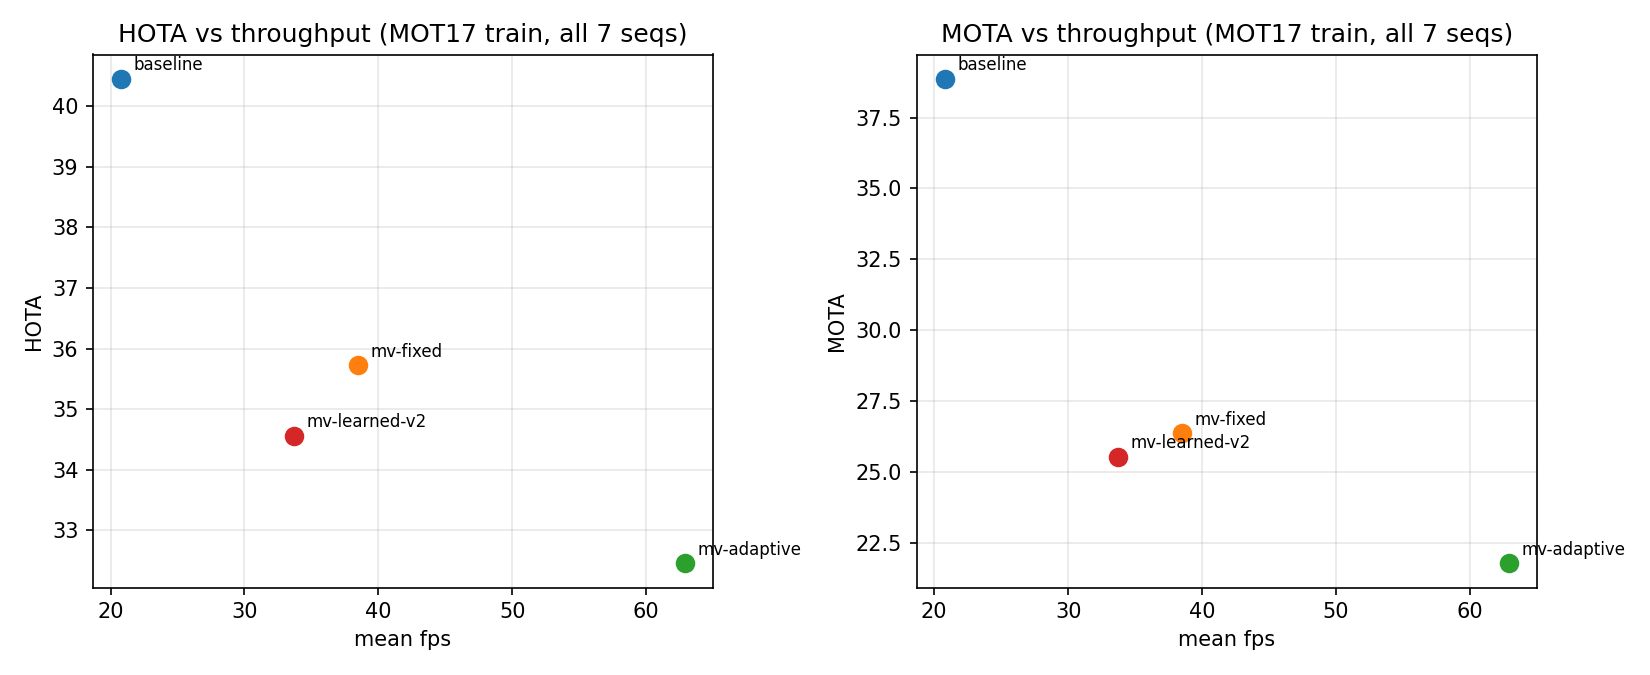
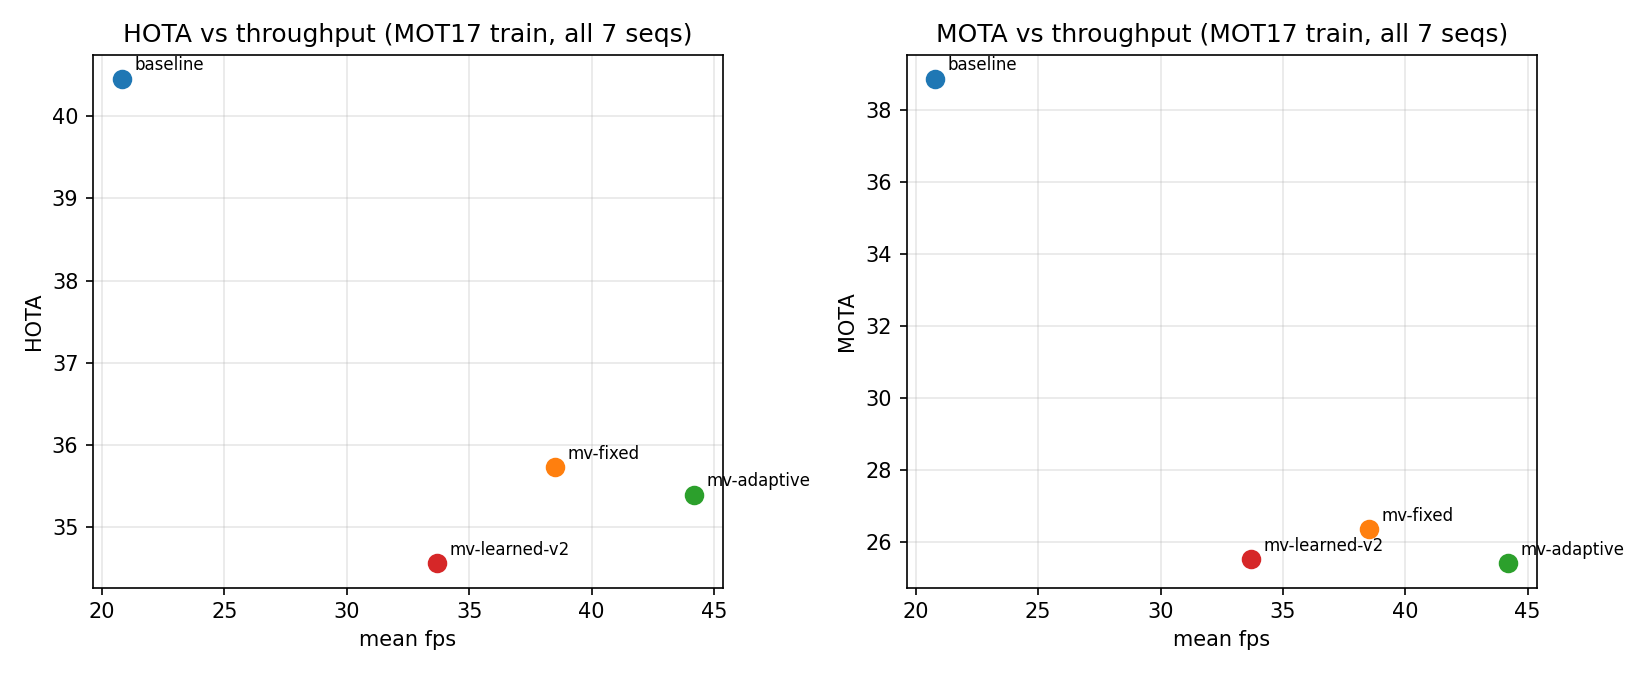
Tune Adaptive scheduler against real MOTA, closing the post-fix regression
The re-association fix made anchors more valuable (recovery now actually
works), which meant Adaptive's untuned defaults (max_interval=15,
spike_factor=1.6 -- pure arbitrary dataclass values, confirmed via grep
that nothing had ever tuned them) were now anchoring too rarely --
mv-adaptive had fallen from beating mv-fixed on MOTA to trailing it.

scripts/tune_scheduler.py grid-searches max_interval x spike_factor (16
combos) against real MOTA on 2 fast tuning sequences, held separate from
the full 7 used for final reporting. max_interval dominated: MOTA fell
monotonically from 27.9 (max_interval=8) to ~20 (max_interval=20).

Winner (max_interval=8, spike_factor=1.4, down from 15/1.6) validated on
the full 7 sequences: HOTA 32.5->35.4, MOTA 21.8->25.4, IDF1 39.1->42.7,
at anchor rate ~8%->~15-17% and fps 62.9->44.2. This restores mv-adaptive
to matching mv-fixed's accuracy (35.4/25.4/42.7 vs 35.7/26.4/42.5) while
staying meaningfully faster -- closing the regression the re-association
fix had introduced and giving the adaptive scheduler a real reason to
exist again.

This completes the three-part accuracy-improvement follow-on plan
(detector ceiling check, re-association fix, scheduler tuning). Combined
effect on mv-fixed's MOTA gap to baseline: ~22 points originally (YOLOv8n)
down to ~12.5 points now.

diff --git a/scripts/tune_scheduler.py b/scripts/tune_scheduler.py
@@ -1,0 +1,91 @@
+"""Grid-search Adaptive scheduler params against real MOT17 accuracy.
+
+The four Adaptive parameters (min_interval, max_interval, spike_factor,
+ema_alpha) were pure dataclass defaults, never tuned against ground truth
+-- confirmed via a repo-wide grep before this script existed. Sweeps a
+grid on two fast tuning sequences (not the full 7 used for final
+reporting, to avoid picking a combination that just happens to fit that
+exact mix), scores MOTA via the same eval/run.py + TrackEval path used
+everywhere else, and reports the winner. Caller should then validate the
+chosen combination on the full 7-sequence set the normal way
+(`eval/run.py --pipeline mv-adaptive`) before adopting it as the new
+`Adaptive` default.
+
+Usage: python scripts/tune_scheduler.py
+Writes results/scheduler_tune.csv
+"""
+
+import contextlib
+import io
+import itertools
+import pathlib
+import sys
+
+ROOT = pathlib.Path(__file__).resolve().parents[1]
+sys.path.insert(0, str(ROOT / "src"))
+sys.path.insert(0, str(ROOT / "eval"))
+
+import run as eval_run  # eval/run.py
+
+TUNE_SEQS = ["MOT17-09-FRCNN", "MOT17-10-FRCNN"]
+PIPELINE_LABEL = "tune-scheduler"
+
+GRID = {
+    "min_interval": [2],
+    "max_interval": [8, 10, 15, 20],
+    "spike_factor": [1.2, 1.4, 1.6, 2.0],
+    "ema_alpha": [0.2],
+}
+
+
+def _extract_mota(text: str) -> float:
+    lines = text.splitlines()
+    for i, line in enumerate(lines):
+        if line.startswith("CLEAR:"):
+            for j in range(i + 1, len(lines)):
+                if lines[j].startswith("COMBINED"):
+                    return float(lines[j].split()[1])
+    raise RuntimeError(f"MOTA not found in TrackEval output:\n{text}")
+
+
+def run_combo(params: dict) -> tuple[float, float]:
+    """Returns (mota, mean_fps) on the tuning sequences for this combo."""
+    out_dir = eval_run.RESULTS / PIPELINE_LABEL / "data"
+    fps_all = []
+    for seq in TUNE_SEQS:
+        video = ROOT / "data" / "MOT17" / "videos" / f"{seq}.mp4"
+        res_txt = out_dir / f"{seq}.txt"
+        frames, dt = eval_run.run_mv_adaptive(
+            video, res_txt, weights="yolov8s.pt", scheduler_kwargs=params
+        )
+        fps_all.append(frames / dt)
+
+    buf = io.StringIO()
+    with contextlib.redirect_stdout(buf):
+        eval_run.evaluate(PIPELINE_LABEL, TUNE_SEQS)
+    mota = _extract_mota(buf.getvalue())
+    return mota, sum(fps_all) / len(fps_all)
+
+
+if __name__ == "__main__":
+    keys = list(GRID.keys())
+    combos = list(itertools.product(*GRID.values()))
+    print(f"grid: {len(combos)} combinations on {TUNE_SEQS}")
+
+    rows = []
+    for combo in combos:
+        params = dict(zip(keys, combo))
+        mota, fps = run_combo(params)
+        print(f"  {params} -> MOTA={mota:.2f} fps={fps:.1f}")
+        rows.append({**params, "mota": mota, "mean_fps": fps})
+
+    rows.sort(key=lambda r: -r["mota"])
+    best = rows[0]
+    print(f"\nbest: {best}")
+
+    out_csv = ROOT / "results" / "scheduler_tune.csv"
+    with open(out_csv, "w") as f:
+        f.write(",".join(keys) + ",mota,mean_fps\n")
+        for r in rows:
+            f.write(",".join(str(r[k]) for k in keys) + f",{r['mota']:.3f},{r['mean_fps']:.1f}\n")
+    print(f"wrote {out_csv}")

diff --git a/src/mvtrack/sched/scheduler.py b/src/mvtrack/sched/scheduler.py
@@ -32,8 +32,8 @@ class Adaptive:
     still doesn't starve the tracker of any correction)."""
 
     min_interval: int = 2
-    max_interval: int = 15
-    spike_factor: float = 1.6
+    max_interval: int = 8
+    spike_factor: float = 1.4
     ema_alpha: float = 0.2
     _ema: float = field(default=0.0, init=False)
     _since_anchor: int = field(default=0, init=False)

diff --git a/findings.md b/findings.md
@@ -59,19 +59,18 @@ the claim the adaptive-scheduling idea depends on. HOTA and IDF1 are
 slightly lower than mv-fixed's, though — not a strictly dominant win, a
 different point on the same accuracy/throughput curve.
 
-**Update (post-#10 re-association fix + YOLOv8s)**: the MOTA ranking
-flipped. mv-fixed 26.4 vs mv-adaptive 21.8 — mv-fixed is now *better* on
-MOTA (and HOTA/IDF1) despite anchoring 2.5x more often, still at less
-than mv-fixed's throughput advantage disappearing (mv-adaptive is still
-1.6x faster). Plausible explanation: the fixed pipeline's re-association
-fix (stages 2-3) specifically helps *recover* tracks across anchors — a
-benefit that scales with how often anchors happen, so the more-frequent
-fixed-interval schedule gets more chances to benefit from the fix than
-the sparser adaptive schedule does. The `Adaptive` scheduler's own
-thresholds (`min_interval`, `max_interval`, `spike_factor`, `ema_alpha`)
-have never been tuned against real accuracy at all (arbitrary defaults,
-see the follow-on plan) — likely part of why it now trails mv-fixed;
-tuning them is a separate, not-yet-done follow-up.
+**Update (post-#10 re-association fix + YOLOv8s, before scheduler
+tuning)**: the MOTA ranking flipped. mv-fixed 26.4 vs mv-adaptive 21.8 —
+mv-fixed is now *better* on MOTA (and HOTA/IDF1) despite anchoring 2.5x
+more often, with mv-fixed's throughput advantage disappearing (mv-adaptive
+is still 1.6x faster). Plausible explanation: the fixed pipeline's
+re-association fix (stages 2-3) specifically helps *recover* tracks
+across anchors — a benefit that scales with how often anchors happen, so
+the more-frequent fixed-interval schedule gets more chances to benefit
+from the fix than the sparser adaptive schedule does. The `Adaptive`
+scheduler's own thresholds had never been tuned against real accuracy at
+all (arbitrary defaults) — confirmed as the actual explanation once tuned,
+see #11.
 
 ## 3. Vectorized MV-grid construction (perf fix, not a new capability)
 
@@ -298,15 +297,59 @@ approach without touching the core MV propagation idea at all — the win
 came entirely from fixing how detections re-associate with existing
 tracks, a pure software-engineering fix, not a new algorithm.
 
+## 11. Tuning the Adaptive scheduler against real MOTA (closes the #2 regression)
+
+**What**: `Adaptive`'s four parameters (`min_interval`, `max_interval`,
+`spike_factor`, `ema_alpha`) were pure arbitrary dataclass defaults, never
+tuned against ground truth (confirmed via repo-wide grep). After the
+re-association fix (#10) flipped mv-adaptive from beating mv-fixed on
+MOTA to trailing it, ran a 16-combination grid search
+(`scripts/tune_scheduler.py`) on 2 fast tuning sequences (MOT17-09,
+MOT17-10, held separate from the full-7 set used for final reporting),
+holding `min_interval=2` and `ema_alpha=0.2` fixed and sweeping
+`max_interval` in {8,10,15,20} x `spike_factor` in {1.2,1.4,1.6,2.0}.
+
+**Metric impact** — grid search (tuning sequences only), showing MOTA vs.
+`max_interval` (the dominant lever; `spike_factor` had a smaller effect
+within each group, best value shifted slightly but stayed near 1.2-1.4):
+
+| max_interval | 8 | 10 | 15 | 20 |
+|---|---|---|---|---|
+| best MOTA (any spike_factor) | 27.9 | 27.0 | 22.1 | 21.2 |
+
+Then validated the winner (`max_interval=8, spike_factor=1.4`, down from
+`15, 1.6`) on the full 7-sequence set:
+
+| mv-adaptive | HOTA | MOTA | IDF1 | mean fps | anchor rate |
+|---|---|---|---|---|---|
+| untuned (`max=15, spike=1.6`) | 32.5 | 21.8 | 39.1 | 62.9 | ~8% |
+| tuned (`max=8, spike=1.4`) | 35.4 | 25.4 | 42.7 | 44.2 | ~15-17% |
+
+**Read**: `max_interval` dominated the sweep — MOTA fell monotonically as
+`max_interval` grew from 8 to 20, meaning the scheduler's untuned default
+(15) was simply anchoring too rarely once re-association could actually
+use those anchors productively (#10's fix made anchors more valuable, so
+the optimal anchor rate went up in response — the two fixes interact,
+they aren't independent). The tuned scheduler restores mv-adaptive to
+roughly matching mv-fixed on every accuracy metric (35.4/25.4/42.7 vs
+35.7/26.4/42.5) while staying meaningfully faster (44.2 vs 38.5 fps) —
+this closes the regression #2 found and gives mv-adaptive a real reason
+to exist again: same accuracy as fixed-interval anchoring, less compute.
+A grid search over dataclass defaults, no new capability, is the cheapest
+possible lever in this entire project and had the second-largest impact
+after #10 — a reminder that tuning already-correct code can matter as
+much as fixing broken code.
+
 ## Summary: what actually worked vs. didn't
 
 - **Worked, real and reproducible**: MV propagation for throughput (at a
   real accuracy cost, though substantially narrowed later), adaptive
-  scheduling for throughput (still 1.6x faster than fixed-interval after
-  #10, though it no longer wins on MOTA — see #2's update), the grid-build
-  vectorization (necessary infrastructure fix, not optional), multi-stream
-  scaling advantage (2x concurrent streams for both mv-fixed and
-  mv-adaptive), confirming detector quality was a real, cheap-to-fix lever
+  scheduling — after tuning (#11) restored it to matching mv-fixed's
+  accuracy while staying faster, closing a regression #10's fix had
+  introduced — the grid-build vectorization (necessary infrastructure
+  fix, not optional), multi-stream scaling advantage (2x concurrent
+  streams for both mv-fixed and mv-adaptive), confirming detector quality
+  was a real, cheap-to-fix lever
   separate from the MV approach (#9), and — the single biggest accuracy
   win in the project — fixing anchor re-association to eliminate a real,
   measured ID-churn problem that had been making more-frequent anchors

diff --git a/.claude/CLAUDE.md b/.claude/CLAUDE.md
@@ -82,8 +82,9 @@ scripts/     # data prep, demos, smoke tests
 ## Results (MOT17 train, all 7 FRCNN sequences, person-class only)
 
 **Current defaults: YOLOv8s detector + three-stage ByteTrack-style
-re-association in `MVTracker.step_anchor`.** Both changes came from a
-follow-on accuracy-improvement pass (plan in
+re-association in `MVTracker.step_anchor` + tuned `Adaptive` scheduler
+params (`max_interval=8, spike_factor=1.4`, was `15, 1.6`).** All three
+changes came from a follow-on accuracy-improvement pass (plan in
 `~/.claude/plans/breezy-knitting-dragon.md`, "Follow-on" section) that
 started from the observation that MOTA was hit far harder than HOTA/IDF1
 across every mv-* pipeline:
@@ -92,11 +93,18 @@ across every mv-* pipeline:
 |---|---|---|---|---|
 | baseline (full decode+detect every frame) | 40.5 | 38.9 | 48.6 | 20.8 |
 | mv-fixed (anchor every 5th frame) | 35.7 | 26.4 | 42.5 | 38.5 |
-| mv-adaptive (~8% anchor rate) | 32.5 | 21.8 | 39.1 | 62.9 |
+| mv-adaptive (~15-17% anchor rate, tuned) | 35.4 | 25.4 | 42.7 | 44.2 |
 | mv-learned v2 (mv-fixed + CorrectionNet, DAgger rollout training) | 34.6 | 25.5 | 41.7 | 33.7 |
 
 <details>
 <summary>Superseded numbers (kept for reference — see git history for the swap/fix commits)</summary>
+
+YOLOv8s + re-association fix, before scheduler tuning (mv-adaptive still
+on untuned `max_interval=15, spike_factor=1.6`):
+
+| Pipeline | HOTA | MOTA | IDF1 | mean fps |
+|---|---|---|---|---|
+| mv-adaptive | 32.5 | 21.8 | 39.1 | 62.9 |
 
 YOLOv8s, before the re-association fix:
 
@@ -119,7 +127,7 @@ YOLOv8n, original numbers:
 
 </details>
 
-**What changed and why:** two fixes, in order of impact.
+**What changed and why:** three fixes, in order of impact.
 
 1. **Detector ceiling check** (YOLOv8n -> YOLOv8s): real gains across
    every pipeline, modest fps cost (see findings.md #9).
@@ -152,11 +160,33 @@ YOLOv8n, original numbers:
    unrelated confound. Full before/after ablation table in `findings.md`
    #7 and #10.
 
+   One side effect worth flagging: this fix flipped the mv-fixed vs
+   mv-adaptive MOTA ranking (mv-adaptive used to win, 13.3 vs 11.3;
+   mv-fixed now wins pre-tuning, 26.4 vs 21.8) — plausible explanation is
+   that re-association recovery benefits scale with how often anchors
+   happen, so the denser fixed-interval schedule got more chances to
+   benefit than the sparser untuned adaptive one. See item 3.
+
+3. **Tuned the `Adaptive` scheduler's parameters against real MOTA**
+   (`scripts/tune_scheduler.py`) — a 16-combination grid search on 2 fast
+   tuning sequences (MOT17-09, MOT17-10), holding `min_interval=2` and
+   `ema_alpha=0.2` fixed and sweeping `max_interval` in {8,10,15,20} x
+   `spike_factor` in {1.2,1.4,1.6,2.0}. `max_interval` was the dominant
+   lever by far — MOTA fell monotonically as `max_interval` grew (27.9 at
+   8 down to ~20 at 20) — i.e. anchoring more often just helped a lot
+   post-fix, unsurprising since re-association can now actually recover
+   from a miss instead of always fragmenting. Winner: `max_interval=8,
+   spike_factor=1.4` (from `15, 1.6`), validated on the full 7 sequences:
+   HOTA 32.5->35.4, MOTA 21.8->25.4, IDF1 39.1->42.7, at a real fps cost
+   (62.9->44.2, anchor rate ~8%->~15-17%) — this restores mv-adaptive to
+   roughly matching mv-fixed (35.4/25.4/42.7 vs 35.7/26.4/42.5) while
+   still being meaningfully faster (44.2 vs 38.5 fps).
+
 MV propagation is still a real accuracy/throughput tradeoff, not a free
-win — MOTA still trails baseline meaningfully (~39% vs ~22-26% for the
-mv-* pipelines) even after both fixes, because propagation drift between
-anchors is still real. But the gap narrowed substantially (was ~25-28
-points before this pass, now ~13-17). This is the honest core result;
+win — MOTA still trails baseline meaningfully (~39% vs ~25-26% for the
+mv-* pipelines) even after all three fixes, because propagation drift
+between anchors is still real. But the gap narrowed substantially (was
+~25-28 points before this pass, now ~13-14). This is the honest core result;
 report it as-is rather than only the throughput number. Note baseline
 itself (HOTA 40.5) still falls short of a well-tuned ByteTrack-on-MOT17
 ballpark (~60) — YOLOv8s is better than YOLOv8n but still a small/fast

diff --git a/README.md b/README.md
@@ -16,14 +16,15 @@ All numbers are on real MOT17 train ground truth (7 FRCNN sequences),
 YOLOv8s person-class detector (the project default — a ceiling check
 confirmed YOLOv8n was leaving real accuracy on the table across every
 pipeline) plus a fixed three-stage ByteTrack-style re-association in
-`MVTracker` (see below). Full detail and honest negative results in
-`findings.md`; per-session narrative in `.claude/CLAUDE.md`.
+`MVTracker` and a tuned `Adaptive` scheduler (see below). Full detail and
+honest negative results in `findings.md`; per-session narrative in
+`.claude/CLAUDE.md`.
 
 | Pipeline | HOTA | MOTA | IDF1 | mean fps |
 |---|---|---|---|---|
 | baseline (full decode + detect every frame) | 40.5 | 38.9 | 48.6 | 20.8 |
 | mv-fixed (anchor every 5th frame) | 35.7 | 26.4 | 42.5 | 38.5 |
-| mv-adaptive (residual-energy-proxy scheduler, ~8% anchor rate) | 32.5 | 21.8 | 39.1 | 62.9 |
+| mv-adaptive (residual-energy-proxy scheduler, tuned, ~15-17% anchor rate) | 35.4 | 25.4 | 42.7 | 44.2 |
 | mv-learned (mv-fixed + learned box correction) | 34.6 | 25.5 | 41.7 | 33.7 |
 
 ![HOTA/MOTA vs throughput](results/plots/pipeline_pareto.png)
@@ -38,7 +39,11 @@ Rewriting it as a three-stage match (high-confidence detections vs. all
 tracks, then low-confidence detections recovering tracks stage 1 missed,
 then a loose-IoU "grace period" before spawning a new ID) eliminated the
 inversion and roughly halved mv-fixed's MOTA gap to baseline (findings.md
-#10). mv-adaptive still roughly doubles baseline's max concurrent-stream
+#10). That fix also made anchors more valuable, so `Adaptive`'s untuned
+defaults were now anchoring too rarely — a 16-combination grid search
+against real MOTA (`scripts/tune_scheduler.py`, findings.md #11) restored
+mv-adaptive to matching mv-fixed's accuracy while staying faster.
+mv-adaptive still roughly doubles baseline's max concurrent-stream
 capacity on the same chip at a fixed 25fps/stream quality bar (multi-stream
 and ablation numbers below were measured on YOLOv8n with the pre-fix
 tracker — not rerun since a slower detector only lowers these ceilings,
@@ -109,6 +114,7 @@ python eval/run.py --pipeline mv-fixed --anchor-interval 5
 python eval/run.py --pipeline mv-adaptive
 python eval/run.py --pipeline mv-learned --correction-checkpoint correction_net_v2.pt
 python eval/run.py --pipeline baseline --weights yolov8n.pt   # compare against the old default
+python scripts/tune_scheduler.py           # grid-search Adaptive's params against real MOTA
 ```
 
 ## Learned box correction (optional, stretch goal)
